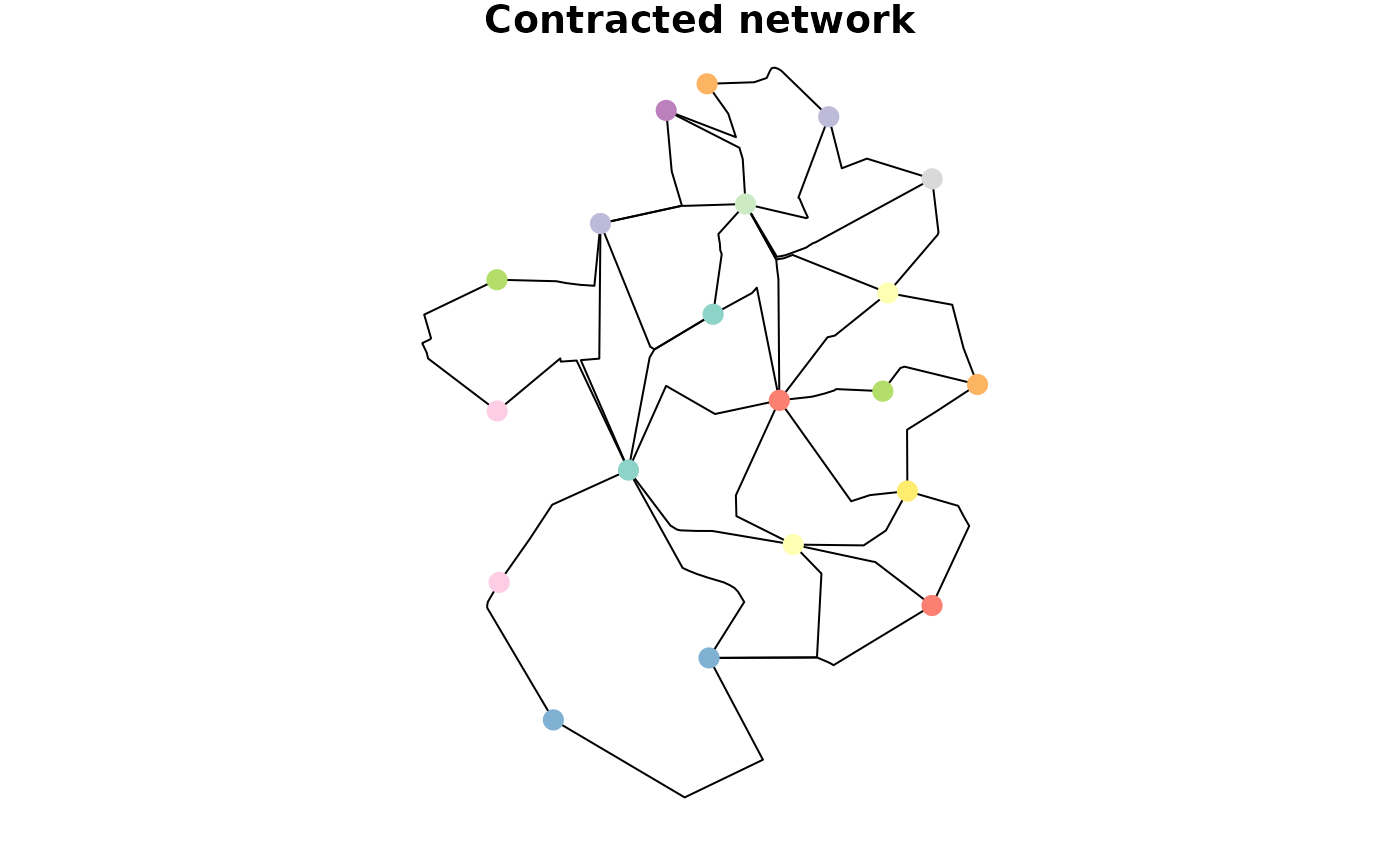
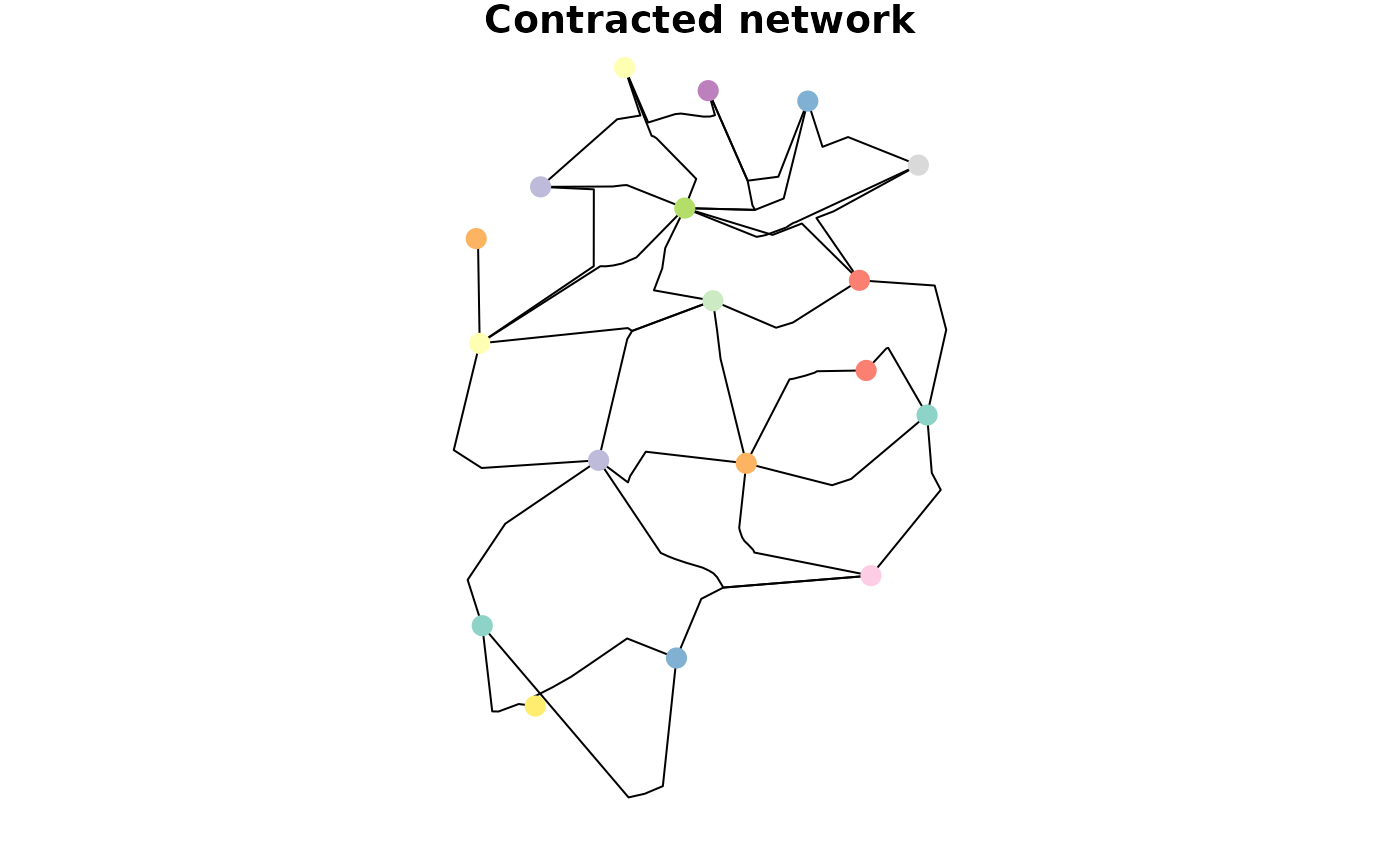
Built site for sfnetworks: 0.6.1@b6073e5

diff --git a/articles/sfn02_preprocess_clean.html b/articles/sfn02_preprocess_clean.html
@@ -99,7 +99,7 @@
     <div class="page-header toc-ignore">
       <h1 data-toc-skip>2. Network pre-processing and cleaning</h1>
             
-            <h4 data-toc-skip class="date">2022-10-17</h4>
+            <h4 data-toc-skip class="date">2022-10-22</h4>
       
       <small class="dont-index">Source: <a href="https://github.com/luukvdmeer/sfnetworks/blob/HEAD/vignettes/sfn02_preprocess_clean.Rmd" class="external-link"><code>vignettes/sfn02_preprocess_clean.Rmd</code></a></small>
       <div class="hidden name"><code>sfn02_preprocess_clean.Rmd</code></div>
@@ -376,12 +376,12 @@ PRE.fansi SPAN {padding-top: .25em; padding-bottom: .25em};
 <span><span class="co">#&gt; # Bounding box:  xmin: 0 ymin: -1 xmax: 7 ymax: 3</span></span>
 <span><span class="co">#&gt;    from    to              x  flow type    foo bar  </span></span>
 <span><span class="co">#&gt;   &lt;int&gt; &lt;int&gt;   &lt;LINESTRING&gt; &lt;int&gt; &lt;chr&gt; &lt;int&gt; &lt;chr&gt;</span></span>
-<span><span class="co">#&gt; 1    10     9 (6 1.2, 5.8 1)     5 path      3 c    </span></span>
-<span><span class="co">#&gt; 2    11    10 (6.2 1, 6 1.2)     5 path      1 x    </span></span>
-<span><span class="co">#&gt; 3     9    12 (5.8 1, 6 0.8)     5 path      7 g    </span></span>
-<span><span class="co">#&gt; 4    12    11 (6 0.8, 6.2 1)     2 path     12 q    </span></span>
-<span><span class="co">#&gt; 5    11    15   (6.2 1, 7 1)     7 path      5 n    </span></span>
-<span><span class="co">#&gt; 6    10    13   (6 1.2, 6 2)     8 path     11 p    </span></span>
+<span><span class="co">#&gt; 1    10     9 (6 1.2, 5.8 1)     1 path      7 y    </span></span>
+<span><span class="co">#&gt; 2    11    10 (6.2 1, 6 1.2)     4 path     14 l    </span></span>
+<span><span class="co">#&gt; 3     9    12 (5.8 1, 6 0.8)     1 path     12 j    </span></span>
+<span><span class="co">#&gt; 4    12    11 (6 0.8, 6.2 1)     7 path      5 h    </span></span>
+<span><span class="co">#&gt; 5    11    15   (6.2 1, 7 1)     2 path      2 d    </span></span>
+<span><span class="co">#&gt; 6    10    13   (6 1.2, 6 2)     2 path      3 v    </span></span>
 <span><span class="co">#&gt; # … with 9 more rows</span></span>
 <span><span class="co">#&gt; #</span></span>
 <span><span class="co">#&gt; # Node Data:     15 × 1</span></span>
@@ -409,8 +409,8 @@ PRE.fansi SPAN {padding-top: .25em; padding-bottom: .25em};
 <span><span class="co">#&gt; # A tibble: 2 × 7</span></span>
 <span><span class="co">#&gt;    from    to               x  flow type    foo bar  </span></span>
 <span><span class="co">#&gt;   &lt;int&gt; &lt;int&gt;    &lt;LINESTRING&gt; &lt;int&gt; &lt;chr&gt; &lt;int&gt; &lt;chr&gt;</span></span>
-<span><span class="co">#&gt; 1     6     7      (4 3, 4 2)     4 path      4 t    </span></span>
-<span><span class="co">#&gt; 2     6     7 (4 3, 5 2, 4 2)     2 road     14 b</span></span></code></pre>
+<span><span class="co">#&gt; 1     6     7      (4 3, 4 2)     8 path      4 c    </span></span>
+<span><span class="co">#&gt; 2     6     7 (4 3, 5 2, 4 2)     3 road     10 r</span></span></code></pre>
 <div class="sourceCode" id="cb10"><pre class="downlit sourceCode r">
 <code class="sourceCode R"><span><span class="co"># Define how we want to combine the attributes.</span></span>
 <span><span class="co"># For the flows:</span></span>
@@ -441,7 +441,7 @@ PRE.fansi SPAN {padding-top: .25em; padding-bottom: .25em};
 <span><span class="co">#&gt; # A tibble: 1 × 6</span></span>
 <span><span class="co">#&gt;    from    to            x  flow type    .tidygraph_edge_index</span></span>
 <span><span class="co">#&gt;   &lt;int&gt; &lt;int&gt; &lt;LINESTRING&gt; &lt;dbl&gt; &lt;chr&gt;   &lt;list&gt;               </span></span>
-<span><span class="co">#&gt; 1     6     7   (4 3, 4 2)     6 unknown &lt;int [2]&gt;</span></span></code></pre>
+<span><span class="co">#&gt; 1     6     7   (4 3, 4 2)    11 unknown &lt;int [2]&gt;</span></span></code></pre>
 <div class="sourceCode" id="cb11"><pre class="downlit sourceCode r">
 <code class="sourceCode R"><span><span class="fu"><a href="https://rdrr.io/r/graphics/plot.default.html" class="external-link">plot</a></span><span class="op">(</span><span class="fu"><a href="https://r-spatial.github.io/sf/reference/st_geometry.html" class="external-link">st_geometry</a></span><span class="op">(</span><span class="va">net</span>, <span class="st">"edges"</span><span class="op">)</span>, col <span class="op">=</span> <span class="fu">edge_colors</span><span class="op">(</span><span class="va">net</span><span class="op">)</span>, lwd <span class="op">=</span> <span class="fl">4</span><span class="op">)</span></span>
 <span><span class="fu"><a href="https://rdrr.io/r/graphics/plot.default.html" class="external-link">plot</a></span><span class="op">(</span><span class="fu"><a href="https://r-spatial.github.io/sf/reference/st_geometry.html" class="external-link">st_geometry</a></span><span class="op">(</span><span class="va">net</span>, <span class="st">"nodes"</span><span class="op">)</span>, pch <span class="op">=</span> <span class="fl">20</span>, cex <span class="op">=</span> <span class="fl">1.5</span>, add <span class="op">=</span> <span class="cn">TRUE</span><span class="op">)</span></span>
@@ -519,9 +519,9 @@ PRE.fansi SPAN {padding-top: .25em; padding-bottom: .25em};
 <span><span class="co">#&gt;    from    to               x  flow type    .tidygraph_edge_index</span></span>
 <span><span class="co">#&gt;   &lt;int&gt; &lt;int&gt;    &lt;LINESTRING&gt; &lt;dbl&gt; &lt;chr&gt;                   &lt;int&gt;</span></span>
 <span><span class="co">#&gt; 1     1     2 (0 1, 1 1, 2 1)    10 road                        1</span></span>
-<span><span class="co">#&gt; 2     2     3      (2 1, 3 1)     5 road                        2</span></span>
-<span><span class="co">#&gt; 3     8     9      (4 3, 4 2)     6 unknown                     5</span></span>
-<span><span class="co">#&gt; 4     9     4      (4 2, 4 1)     5 road                        6</span></span></code></pre>
+<span><span class="co">#&gt; 2     2     3      (2 1, 3 1)     8 road                        2</span></span>
+<span><span class="co">#&gt; 3     8     9      (4 3, 4 2)    11 unknown                     5</span></span>
+<span><span class="co">#&gt; 4     9     4      (4 2, 4 1)     6 road                        6</span></span></code></pre>
 <div class="sourceCode" id="cb15"><pre class="downlit sourceCode r">
 <code class="sourceCode R"><span></span>
 <span><span class="co"># Define how we want to combine the attributes.</span></span>
@@ -551,8 +551,8 @@ PRE.fansi SPAN {padding-top: .25em; padding-bottom: .25em};
 <span><span class="co">#&gt; # A tibble: 2 × 6</span></span>
 <span><span class="co">#&gt;    from    to  flow type    .tidygraph_edge_index                    x</span></span>
 <span><span class="co">#&gt;   &lt;int&gt; &lt;int&gt; &lt;dbl&gt; &lt;chr&gt;   &lt;list&gt;                        &lt;LINESTRING&gt;</span></span>
-<span><span class="co">#&gt; 1     1     2    15 road    &lt;int [2]&gt;             (0 1, 1 1, 2 1, 3 1)</span></span>
-<span><span class="co">#&gt; 2     7     3    11 unknown &lt;int [2]&gt;                  (4 3, 4 2, 4 1)</span></span></code></pre>
+<span><span class="co">#&gt; 1     1     2    18 road    &lt;int [2]&gt;             (0 1, 1 1, 2 1, 3 1)</span></span>
+<span><span class="co">#&gt; 2     7     3    17 unknown &lt;int [2]&gt;                  (4 3, 4 2, 4 1)</span></span></code></pre>
 <p>Secondly, it is possible to only remove those pseudo nodes for which attributes among their incident edges are equal. To do this, set <code>require_equal = TRUE</code>. Optionally, you can provide a list of attribute names instead, such that only those attributes are checked for equality, instead of all attributes. Again, remember that the geometry-list column, the tidygraph index column, as well as the <em>from</em> and <em>to</em> columns are not considered attributes in this case.</p>
 <p>In our example, our first pseudo node has incident edges of the same type (“road”), while the second pseudo node has incident edges of differing types (“road” and “unknown”). If we require the type attribute to be equal, the second pseudo node will not be removed.</p>
 <div class="sourceCode" id="cb16"><pre class="downlit sourceCode r">
@@ -628,9 +628,9 @@ PRE.fansi SPAN {padding-top: .25em; padding-bottom: .25em};
 <span><span class="co">#&gt; # Bounding box:  xmin: 0 ymin: -1 xmax: 7 ymax: 3</span></span>
 <span><span class="co">#&gt;    from    to  flow type  .tidygraph_edge_index            x</span></span>
 <span><span class="co">#&gt;   &lt;int&gt; &lt;int&gt; &lt;dbl&gt; &lt;chr&gt; &lt;list&gt;                &lt;LINESTRING&gt;</span></span>
-<span><span class="co">#&gt; 1     2     3     5 road  &lt;int [1]&gt;               (3 1, 4 1)</span></span>
-<span><span class="co">#&gt; 2     3     4     3 path  &lt;int [1]&gt;             (4 1, 5.8 1)</span></span>
-<span><span class="co">#&gt; 3     5     2     1 road  &lt;int [1]&gt;               (3 2, 3 1)</span></span>
+<span><span class="co">#&gt; 1     2     3     8 road  &lt;int [1]&gt;               (3 1, 4 1)</span></span>
+<span><span class="co">#&gt; 2     3     4     1 path  &lt;int [1]&gt;             (4 1, 5.8 1)</span></span>
+<span><span class="co">#&gt; 3     5     2    10 road  &lt;int [1]&gt;               (3 2, 3 1)</span></span>
 <span><span class="co">#&gt; # … with 11 more rows</span></span></code></pre>
 <p>The combination of the cluster index and the component index can now be used to define the groups of nodes to be contracted. Nodes that form a group on their own will remain unchanged.</p>
 <p>A point of attention is that contraction introduces new <em>multiple edges</em> and/or <em>loop edges</em>. Multiple edges are introduced by contraction when there are several connections between the same groups of nodes. Loop edges are introduced by contraction when there are connections within a group. Setting <code>simplify = TRUE</code> will remove the multiple and loop edges after contraction. However, note that this also removes multiple and loop edges that already existed before contraction.</p>
@@ -675,8 +675,8 @@ PRE.fansi SPAN {padding-top: .25em; padding-bottom: .25em};
 <span><span class="co">#&gt;   &lt;POINT&gt;                 &lt;int&gt; &lt;int&gt; &lt;int&gt; &lt;lgl&gt;      </span></span>
 <span><span class="co">#&gt; 1 (5.8 1)                     5     4     1 TRUE       </span></span>
 <span><span class="co">#&gt; 2 (6 0.8)                    11     4     1 TRUE       </span></span>
-<span><span class="co">#&gt; 3 (6 1.2)                    12     4     1 TRUE       </span></span>
-<span><span class="co">#&gt; 4 (6.2 1)                    14     4     1 FALSE</span></span></code></pre>
+<span><span class="co">#&gt; 3 (6 1.2)                    12     4     1 FALSE      </span></span>
+<span><span class="co">#&gt; 4 (6.2 1)                    14     4     1 TRUE</span></span></code></pre>
 <div class="sourceCode" id="cb22"><pre class="downlit sourceCode r">
 <code class="sourceCode R"><span><span class="co"># Define how we want to combine the attributes.</span></span>
 <span><span class="co"># For the boolean is_priority variable:</span></span>

diff --git a/articles/sfn05_morphers.html b/articles/sfn05_morphers.html
@@ -99,7 +99,7 @@
     <div class="page-header toc-ignore">
       <h1 data-toc-skip>5. Spatial morphers</h1>
             
-            <h4 data-toc-skip class="date">2022-10-17</h4>
+            <h4 data-toc-skip class="date">2022-10-22</h4>
       
       <small class="dont-index">Source: <a href="https://github.com/luukvdmeer/sfnetworks/blob/HEAD/vignettes/sfn05_morphers.Rmd" class="external-link"><code>vignettes/sfn05_morphers.Rmd</code></a></small>
       <div class="hidden name"><code>sfn05_morphers.Rmd</code></div>
@@ -161,9 +161,9 @@ PRE.fansi SPAN {padding-top: .25em; padding-bottom: .25em};
 <span><span class="co">#&gt; # Bounding box:  xmin: 4150707 ymin: 3206375 xmax: 4152367 ymax: 3208565</span></span>
 <span><span class="co">#&gt;    from    to name                  type                          geometry group</span></span>
 <span><span class="co">#&gt;   &lt;int&gt; &lt;int&gt; &lt;chr&gt;                 &lt;fct&gt;                 &lt;LINESTRING [m]&gt; &lt;int&gt;</span></span>
-<span><span class="co">#&gt; 1     1     2 Havixbecker Strasse   residential (4151491 3207923, 4151474…    11</span></span>
-<span><span class="co">#&gt; 2     3     4 Pienersallee          secondary   (4151398 3207777, 4151390…     1</span></span>
-<span><span class="co">#&gt; 3     5     6 Schulte-Bernd-Strasse residential (4151408 3207539, 4151417…     1</span></span>
+<span><span class="co">#&gt; 1     1     2 Havixbecker Strasse   residential (4151491 3207923, 4151474…    12</span></span>
+<span><span class="co">#&gt; 2     3     4 Pienersallee          secondary   (4151398 3207777, 4151390…    12</span></span>
+<span><span class="co">#&gt; 3     5     6 Schulte-Bernd-Strasse residential (4151408 3207539, 4151417…     4</span></span>
 <span><span class="co">#&gt; # … with 848 more rows</span></span></code></pre>
 <div class="sourceCode" id="cb3"><pre class="downlit sourceCode r">
 <code class="sourceCode R"><span><span class="co"># The algorithm detected 34 communities.</span></span>
@@ -172,7 +172,7 @@ PRE.fansi SPAN {padding-top: .25em; padding-bottom: .25em};
 <span>  <span class="fu"><a href="https://dplyr.tidyverse.org/reference/pull.html" class="external-link">pull</a></span><span class="op">(</span><span class="va">group</span><span class="op">)</span> <span class="op"><a href="https://magrittr.tidyverse.org/reference/pipe.html" class="external-link">%&gt;%</a></span></span>
 <span>  <span class="fu"><a href="https://rdrr.io/r/base/unique.html" class="external-link">unique</a></span><span class="op">(</span><span class="op">)</span> <span class="op"><a href="https://magrittr.tidyverse.org/reference/pipe.html" class="external-link">%&gt;%</a></span></span>
 <span>  <span class="fu"><a href="https://rdrr.io/r/base/length.html" class="external-link">length</a></span><span class="op">(</span><span class="op">)</span></span>
-<span><span class="co">#&gt; [1] 33</span></span></code></pre></div>
+<span><span class="co">#&gt; [1] 32</span></span></code></pre></div>
 <p>In all grouping functions in <code>tidygraph</code>, the group index <code>1</code> belongs the largest group, the index <code>2</code> to the second largest group, et cetera. Lets plot only the first third of the 34 groups, to keep the plot clear.</p>
 <div class="sourceCode" id="cb4"><pre class="downlit sourceCode r">
 <code class="sourceCode R"><span><span class="fu"><a href="https://rdrr.io/r/graphics/plot.default.html" class="external-link">plot</a></span><span class="op">(</span><span class="fu"><a href="https://r-spatial.github.io/sf/reference/st_geometry.html" class="external-link">st_geometry</a></span><span class="op">(</span><span class="va">net</span>, <span class="st">"edges"</span><span class="op">)</span>, col <span class="op">=</span> <span class="st">"grey"</span>, lwd <span class="op">=</span> <span class="fl">0.5</span><span class="op">)</span></span>
@@ -483,8 +483,8 @@ PRE.fansi SPAN {padding-top: .25em; padding-bottom: .25em};
 <span><span class="co">#&gt; # A tibble: 2 × 6</span></span>
 <span><span class="co">#&gt;    from    to name         type                                   geometry  flow</span></span>
 <span><span class="co">#&gt;   &lt;int&gt; &lt;int&gt; &lt;chr&gt;        &lt;fct&gt;                          &lt;LINESTRING [m]&gt; &lt;int&gt;</span></span>
-<span><span class="co">#&gt; 1   118   119 NA           service (4150716 3207080, 4150715 3207108, 415…    24</span></span>
-<span><span class="co">#&gt; 2   118   119 Pienersallee service      (4150716 3207080, 4150752 3207067)    94</span></span></code></pre>
+<span><span class="co">#&gt; 1   118   119 NA           service (4150716 3207080, 4150715 3207108, 415…    22</span></span>
+<span><span class="co">#&gt; 2   118   119 Pienersallee service      (4150716 3207080, 4150752 3207067)    16</span></span></code></pre>
 <div class="sourceCode" id="cb16"><pre class="downlit sourceCode r">
 <code class="sourceCode R"><span><span class="co"># Simplify the network.</span></span>
 <span><span class="co"># We summarise the flow attribute by taking the sum of the merged edge flows.</span></span>
@@ -508,7 +508,7 @@ PRE.fansi SPAN {padding-top: .25em; padding-bottom: .25em};
 <span><span class="co">#&gt; # A tibble: 1 × 7</span></span>
 <span><span class="co">#&gt;    from    to name  type                                  geometry  flow .tidy…¹</span></span>
 <span><span class="co">#&gt;   &lt;int&gt; &lt;int&gt; &lt;chr&gt; &lt;fct&gt;                         &lt;LINESTRING [m]&gt; &lt;dbl&gt; &lt;list&gt; </span></span>
-<span><span class="co">#&gt; 1   118   119 NA    service (4150716 3207080, 4150715 3207108, 41…   118 &lt;int&gt;  </span></span>
+<span><span class="co">#&gt; 1   118   119 NA    service (4150716 3207080, 4150715 3207108, 41…    38 &lt;int&gt;  </span></span>
 <span><span class="co">#&gt; # … with abbreviated variable name ¹.tidygraph_edge_index</span></span></code></pre>
 </div>
 <div class="section level3">
@@ -616,9 +616,9 @@ PRE.fansi SPAN {padding-top: .25em; padding-bottom: .25em};
 <span><span class="co">#&gt;            geometry building post_code</span></span>
 <span><span class="co">#&gt;         &lt;POINT [m]&gt; &lt;lgl&gt;        &lt;dbl&gt;</span></span>
 <span><span class="co">#&gt; 1 (4151491 3207923) TRUE          1020</span></span>
-<span><span class="co">#&gt; 2 (4151474 3207946) TRUE          1020</span></span>
-<span><span class="co">#&gt; 3 (4151398 3207777) TRUE          1020</span></span>
-<span><span class="co">#&gt; 4 (4151370 3207673) FALSE           NA</span></span>
+<span><span class="co">#&gt; 2 (4151474 3207946) FALSE           NA</span></span>
+<span><span class="co">#&gt; 3 (4151398 3207777) FALSE           NA</span></span>
+<span><span class="co">#&gt; 4 (4151370 3207673) TRUE          1020</span></span>
 <span><span class="co">#&gt; 5 (4151408 3207539) TRUE          1020</span></span>
 <span><span class="co">#&gt; 6 (4151421 3207592) TRUE          1020</span></span>
 <span><span class="co">#&gt; # … with 695 more rows</span></span>
@@ -682,8 +682,8 @@ PRE.fansi SPAN {padding-top: .25em; padding-bottom: .25em};
 <span><span class="co">#&gt;            geometry building</span></span>
 <span><span class="co">#&gt;         &lt;POINT [m]&gt; &lt;lgl&gt;   </span></span>
 <span><span class="co">#&gt; 1 (4151491 3207923) TRUE    </span></span>
-<span><span class="co">#&gt; 2 (4151474 3207946) TRUE    </span></span>
-<span><span class="co">#&gt; 3 (4151398 3207777) TRUE    </span></span>
+<span><span class="co">#&gt; 2 (4151474 3207946) FALSE   </span></span>
+<span><span class="co">#&gt; 3 (4151398 3207777) FALSE   </span></span>
 <span><span class="co">#&gt; # … with 698 more rows</span></span></code></pre>
 </div>
 </div>

diff --git a/news/index.html b/news/index.html
@@ -74,6 +74,9 @@
 <div class="section level4">
 <h4 id="bug-fixes-0-6-1">Bug fixes<a class="anchor" aria-label="anchor" href="#bug-fixes-0-6-1"></a></h4>
 <ul><li>Unit tests in <code>test_join.R</code> now successfully run also on R-devel.</li></ul></div>
+<div class="section level4">
+<h4 id="new-features-0-6-1">New features<a class="anchor" aria-label="anchor" href="#new-features-0-6-1"></a></h4>
+<ul><li>Updated plot algorithm to be faster and more efficient. Refs <a href="https://github.com/luukvdmeer/sfnetworks/issues/226" class="external-link">#226</a> and <a href="https://github.com/luukvdmeer/sfnetworks/pull/228" class="external-link">#228</a>. Thanks <a href="https://github.com/agila5" class="external-link">@agila5</a>.</li></ul></div>
 </div>
     <div class="section level2">
 <h2 class="page-header" data-toc-text="0.6.0" id="sfnetworks-v060-coerde">sfnetworks v0.6.0 “Coerde”<small>2022-08-19</small><a class="anchor" aria-label="anchor" href="#sfnetworks-v060-coerde"></a></h2>

diff --git a/reference/as.linnet.html b/reference/as.linnet.html
@@ -83,8 +83,7 @@ this method without the .sfnetwork suffix and after loading the
     </div>
 
     <div id="ref-usage">
-    <div class="sourceCode"><pre class="sourceCode r"><code><span><span class="co"># S3 method for sfnetwork</span></span>
-<span><span class="fu">as.linnet</span><span class="op">(</span><span class="va">X</span>, <span class="va">...</span><span class="op">)</span></span></code></pre></div>
+    <div class="sourceCode"><pre class="sourceCode r"><code><span><span class="fu">as.linnet.sfnetwork</span><span class="op">(</span><span class="va">X</span>, <span class="va">...</span><span class="op">)</span></span></code></pre></div>
     </div>
 
     <div id="arguments">

diff --git a/articles/sfn03_join_filter.html b/articles/sfn03_join_filter.html
@@ -99,7 +99,7 @@
     <div class="page-header toc-ignore">
       <h1 data-toc-skip>3. Spatial joins and filters</h1>
             
-            <h4 data-toc-skip class="date">2022-10-17</h4>
+            <h4 data-toc-skip class="date">2022-10-22</h4>
       
       <small class="dont-index">Source: <a href="https://github.com/luukvdmeer/sfnetworks/blob/HEAD/vignettes/sfn03_join_filter.Rmd" class="external-link"><code>vignettes/sfn03_join_filter.Rmd</code></a></small>
       <div class="hidden name"><code>sfn03_join_filter.Rmd</code></div>

diff --git a/articles/sfn01_structure.html b/articles/sfn01_structure.html
@@ -99,7 +99,7 @@
     <div class="page-header toc-ignore">
       <h1 data-toc-skip>1. The sfnetwork data structure</h1>
             
-            <h4 data-toc-skip class="date">2022-10-17</h4>
+            <h4 data-toc-skip class="date">2022-10-22</h4>
       
       <small class="dont-index">Source: <a href="https://github.com/luukvdmeer/sfnetworks/blob/HEAD/vignettes/sfn01_structure.Rmd" class="external-link"><code>vignettes/sfn01_structure.Rmd</code></a></small>
       <div class="hidden name"><code>sfn01_structure.Rmd</code></div>

diff --git a/articles/sfn04_routing.html b/articles/sfn04_routing.html
@@ -99,7 +99,7 @@
     <div class="page-header toc-ignore">
       <h1 data-toc-skip>4. Routing</h1>
             
-            <h4 data-toc-skip class="date">2022-10-17</h4>
+            <h4 data-toc-skip class="date">2022-10-22</h4>
       
       <small class="dont-index">Source: <a href="https://github.com/luukvdmeer/sfnetworks/blob/HEAD/vignettes/sfn04_routing.Rmd" class="external-link"><code>vignettes/sfn04_routing.Rmd</code></a></small>
       <div class="hidden name"><code>sfn04_routing.Rmd</code></div>

diff --git a/reference/index.html b/reference/index.html
@@ -149,7 +149,7 @@
           <p class="section-desc"></p><p>The packages implements basic functions to coerce sfnetwork objects into other formats.</p>
         </th>
       </tr></tbody><tbody><tr><td>
-          <p><code><a href="as.linnet.html">as.linnet(<i>&lt;sfnetwork&gt;</i>)</a></code> </p>
+          <p><code><a href="as.linnet.html">as.linnet.sfnetwork()</a></code> </p>
         </td>
         <td><p>Convert a sfnetwork into a linnet</p></td>
       </tr><tr><td>
